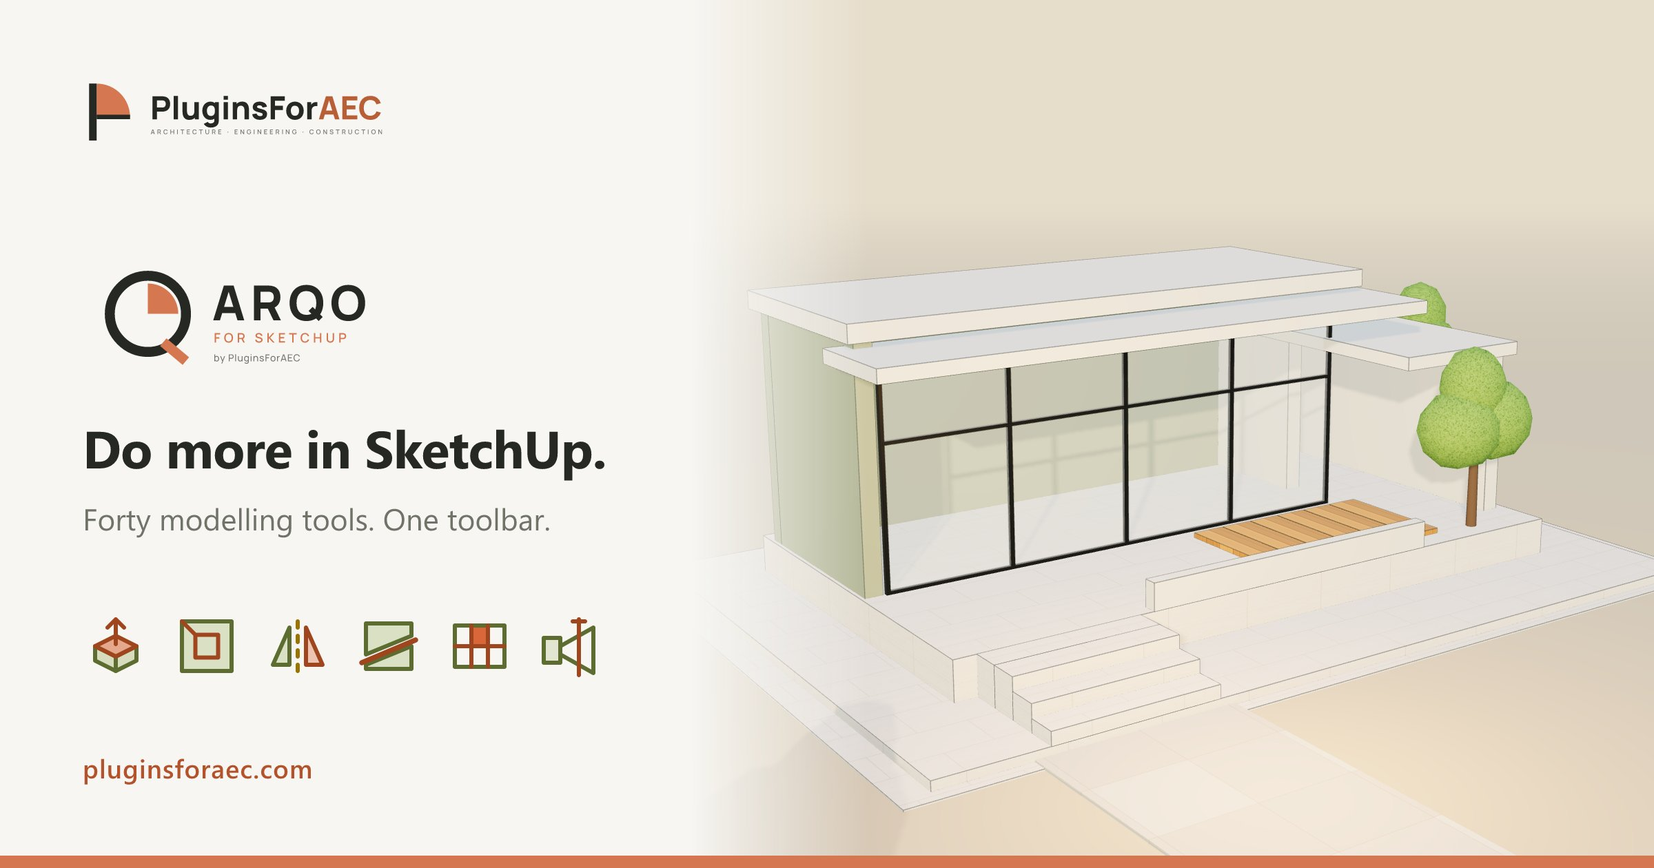
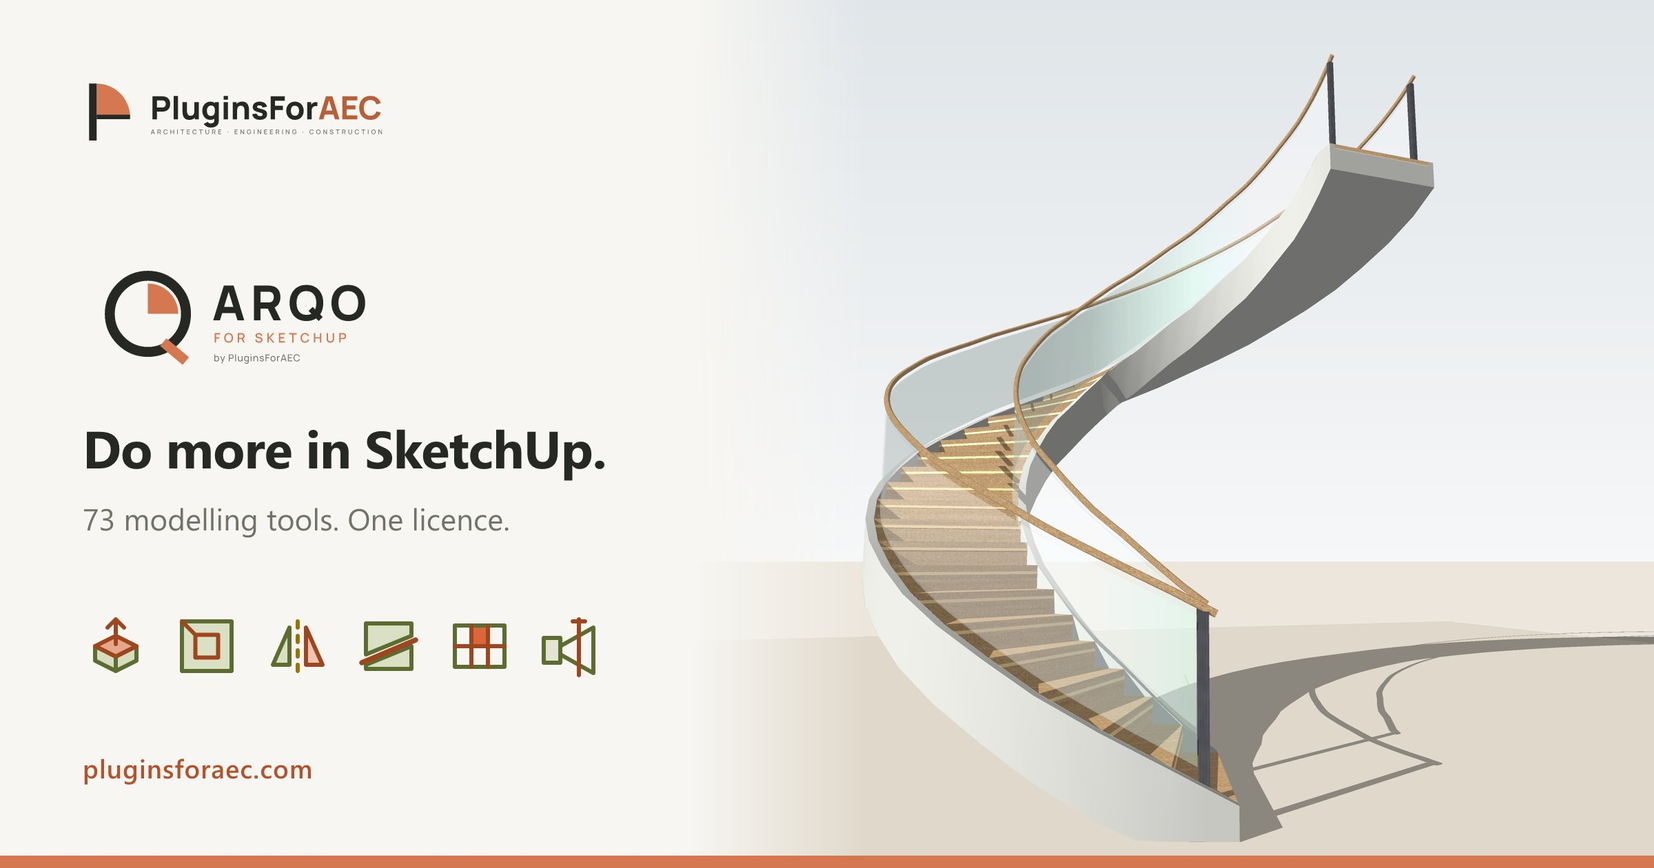
ARQO is 73 tools: site wording and share cover

diff --git a/guides/sketchup-plugins-for-architects.html b/guides/sketchup-plugins-for-architects.html
@@ -17,7 +17,7 @@
 <script type="application/ld+json">{"@context":"https://schema.org","@type":"Article","headline":"SketchUp plugins for architects: the tasks that matter","description":"Which SketchUp plugins architects need, task by task: massing, walls and stairs, cuts, cleaning up CAD, organising the model and presenting it.","inLanguage":"en","mainEntityOfPage":"https://pluginsforaec.com/guides/sketchup-plugins-for-architects.html","author":{"@type":"Organization","name":"PluginsForAEC","url":"https://pluginsforaec.com/"},"publisher":{"@type":"Organization","name":"PluginsForAEC","logo":{"@type":"ImageObject","url":"https://pluginsforaec.com/assets/logo-512.png"}}}</script>
 <section class="tool-head"><div class="wrap"><p class="eyebrow"><a href="index.html">Guides</a></p><h1 class="page-title">SketchUp plugins for architects: the tasks that matter</h1><p class="lede">SketchUp is quick for ideas and slow for the repetitive parts of a project. These are the tasks where a plugin saves an architect the most time, and the ARQO tools that do them.</p></div></section>
 <section class="tool-body"><div class="wrap info article"><div class="info-block"><h2>Massing and form</h2><p>Push/pull is where most SketchUp time goes. <a class="link" href="../arqo/tools/arqo-push.html">ARQOPush</a> keeps SketchUp's push/pull and adds twelve modes: many faces at once, up to a face or an object, thicken, taper, offset, copy, symmetric, along an axis, repeat. <a class="link" href="../arqo/tools/make-box.html">Make Box+</a> draws a closed box from three points and a height; <a class="link" href="../arqo/tools/smart-offset.html">Smart Offset</a> offsets with guided distances; <a class="link" href="../arqo/tools/panel.html">Panel</a> and <a class="link" href="../arqo/tools/frame.html">Frame</a> add boards and frames on faces.</p></div><div class="info-block"><h2>Walls and stairs</h2><p><a class="link" href="../arqo/tools/smart-wall.html">Smart Wall</a> draws walls along a path with a thickness and a height, the corners mitred. <a class="link" href="../arqo/tools/smart-stair.html">ARQO Stair+</a> makes a straight flight between two levels in two clicks and checks it against the rules for risers and goings.</p></div><div class="info-block"><h2>Cuts and sections</h2><p><a class="link" href="../arqo/tools/smart-slice.html">Smart Slice</a> cuts geometry with a reference plane; <a class="link" href="../arqo/tools/multi-slice.html">Multi Slice</a> makes many parallel cuts in one go, in equal parts or at a spacing. <a class="link" href="../arqo/tools/divide.html">Divide+</a> splits edges, curves and faces into equal parts, previewed first.</p></div><div class="info-block"><h2>Cleaning up drawings and imports</h2><p>Imported plans are rarely ready to model on. <a class="link" href="../arqo/tools/import-dxf.html">Import DXF</a> brings DXF geometry into a controlled context, <a class="link" href="../arqo/tools/find-gap.html">Find Gap</a> finds open ends, <a class="link" href="../arqo/tools/connect-heal.html">Connect / Heal</a> closes gaps, <a class="link" href="../arqo/tools/weld.html">Weld+</a> and <a class="link" href="../arqo/tools/curve-to-arc.html">Curve to Arc</a> rebuild curves, <a class="link" href="../arqo/tools/make-face.html">Make Face+</a> fills closed outlines and <a class="link" href="../arqo/tools/delete-overlap.html">Delete Overlap</a> removes duplicates. The <a class="link" href="clean-up-imported-cad-in-sketchup.html">clean-up guide</a> puts them in order.</p></div><div class="info-block"><h2>Organising the model</h2><p><a class="link" href="../arqo/tools/tag-tools.html">Tag Tools</a> assigns, isolates and cleans up tags from the selection. <a class="link" href="../arqo/tools/to-components.html">To Components+</a> turns groups into components, with alike groups sharing one definition. <a class="link" href="../arqo/tools/smart-select.html">Smart Select</a> and <a class="link" href="../arqo/tools/filter-selection.html">Filter Selection</a> select by kind, tag, material and visibility.</p></div><div class="info-block"><h2>Presenting it</h2><p><a class="link" href="../arqo/tools/scene-shadows.html">Scene Shadows</a> gives every scene the same shadows, <a class="link" href="../arqo/tools/export-scenes.html">Export Scenes</a> saves every scene as an image in one click, and <a class="link" href="../arqo/tools/clipping-camera.html">Clipping Camera</a> finds what makes close-up views clip. <a class="link" href="../arqo/tools/import-camera.html">Import Camera</a> brings cameras in from another model.</p></div><div class="info-block"><h2>One toolbar</h2><p>All of these sit on one ARQO toolbar and work the same way: SketchUp's keys and inference, typed values, one Undo for every action, and a plain message after each run. Browse them all on the <a class="link" href="../arqo/index.html#tools">ARQO page</a> or read each tool's guide in the <a class="link" href="../docs/index.html">documentation</a>.</p></div>
-  <div class="info-block"><h2>Read next</h2><ul class="always"><li><a class="link" href="plugins-for-aec.html">Plugins for AEC: what they are and how to choose them</a></li><li><a class="link" href="clean-up-imported-cad-in-sketchup.html">Cleaning up imported CAD drawings in SketchUp</a></li><li><a class="link" href="../arqo/index.html">ARQO for SketchUp: all forty tools</a></li></ul></div></div></section><footer class="foot"><div class="wrap">
+  <div class="info-block"><h2>Read next</h2><ul class="always"><li><a class="link" href="plugins-for-aec.html">Plugins for AEC: what they are and how to choose them</a></li><li><a class="link" href="clean-up-imported-cad-in-sketchup.html">Cleaning up imported CAD drawings in SketchUp</a></li><li><a class="link" href="../arqo/index.html">ARQO for SketchUp: all 73 tools</a></li></ul></div></div></section><footer class="foot"><div class="wrap">
   <div class="foot-row">
     <div class="foot-brand"><img src="../assets/pluginsforaec-dark.svg" alt="PluginsForAEC"><p>Plugins for AEC: professional plugins for architects, engineers and builders. First product: ARQO for SketchUp.</p></div>
     <nav class="foot-col"><b>Products</b><a href="../arqo/index.html">ARQO for SketchUp</a><a href="../arqo/index.html#push">ARQOPush</a><a href="../index.html#products">Roadmap</a></nav>

diff --git a/index.html b/index.html
@@ -1,10 +1,10 @@
 <!doctype html>
 <html lang="en"><head><meta charset="utf-8"><meta name="viewport" content="width=device-width, initial-scale=1">
-<title>PluginsForAEC — Plugins for AEC: architecture, engineering, construction</title><meta name="description" content="PluginsForAEC (Plugins for AEC) makes professional plugins for architects, engineers and builders. First product: ARQO for SketchUp, forty modelling tools.">
+<title>PluginsForAEC — Plugins for AEC: architecture, engineering, construction</title><meta name="description" content="PluginsForAEC (Plugins for AEC) makes professional plugins for architects, engineers and builders. First product: ARQO for SketchUp, 73 modelling tools.">
 <link rel="icon" href="favicon.svg" type="image/svg+xml"><link rel="apple-touch-icon" href="assets/icon-180.png"><link rel="stylesheet" href="style.css">
 <link rel="canonical" href="https://pluginsforaec.com/">
 <meta property="og:type" content="website"><meta property="og:site_name" content="PluginsForAEC"><meta property="og:url" content="https://pluginsforaec.com/">
-<meta property="og:title" content="PluginsForAEC — Plugins for AEC: architecture, engineering, construction"><meta property="og:description" content="PluginsForAEC (Plugins for AEC) makes professional plugins for architects, engineers and builders. First product: ARQO for SketchUp, forty modelling tools."><meta property="og:locale" content="en_US">
+<meta property="og:title" content="PluginsForAEC — Plugins for AEC: architecture, engineering, construction"><meta property="og:description" content="PluginsForAEC (Plugins for AEC) makes professional plugins for architects, engineers and builders. First product: ARQO for SketchUp, 73 modelling tools."><meta property="og:locale" content="en_US">
 <meta property="og:image" content="https://pluginsforaec.com/assets/og.jpg"><meta property="og:image:type" content="image/jpeg"><meta property="og:image:width" content="2400"><meta property="og:image:height" content="1260">
 <meta property="og:image:alt" content="ARQO for SketchUp: the demo house and ARQO toolbar icons">
 <meta name="twitter:card" content="summary_large_image"><meta name="twitter:image" content="https://pluginsforaec.com/assets/og.jpg">
@@ -32,7 +32,7 @@
 
 <section id="products" class="products"><div class="wrap">
   <div class="stats">
-  <div><b>40</b><span>modelling tools</span></div>
+  <div><b>73</b><span>SketchUp tools</span></div>
   <div><b>12</b><span>ARQOPush modes</span></div>
   <div><b>32</b><span>new tools since launch</span></div>
   <div><b>1</b><span>Undo for every action</span></div>
@@ -40,7 +40,7 @@
   <p class="eyebrow dark">Products</p>
   <h2>One ecosystem. Four workspaces.</h2>
   <div class="product-grid">
-    <a class="product product-live" href="arqo/index.html"><div class="product-text"><span class="host">01 / SketchUp</span><span class="state live">First product · Early access, on sale</span><h3><img src="assets/arqo-dark.svg" alt="ARQO for SketchUp"></h3><p class="line">A new toolset for everyday modelling.</p><p>Forty tools, ARQOPush and new architecture tools on one toolbar. Every action one Undo, your components safe.</p><span class="go">Explore ARQO →</span></div><img class="product-shot" src="assets/arqo/stair_helix-1024.webp" alt="ARQO for SketchUp: a helical stair built by Stair+ in SketchUp" loading="lazy"></a><article class="product product-cad"><span class="host">02 / AutoCAD</span><span class="state">On the roadmap</span><h3>CADPILOT</h3><p class="line">Drawing intelligence and project control.</p><p>QA, standardisation and delivery automation for drawing sets.</p></article><article class="product product-rhino"><span class="host">03 / Rhino</span><span class="state">On the roadmap</span><h3>RHINOPILOT</h3><p class="line">From geometry to fabrication.</p><p>Geometry intelligence, surfaces and fabrication.</p></article><article class="product product-gh"><span class="host">04 / Grasshopper</span><span class="state">On the roadmap</span><h3>GH Tools</h3><p class="line">Make your parametric flow visible.</p><p>GH Doctor, Copilot and definition tools.</p></article>
+    <a class="product product-live" href="arqo/index.html"><div class="product-text"><span class="host">01 / SketchUp</span><span class="state live">First product · Early access, on sale</span><h3><img src="assets/arqo-dark.svg" alt="ARQO for SketchUp"></h3><p class="line">A new toolset for everyday modelling.</p><p>73 tools, ARQOPush included, in one install. Every action one Undo, your components safe.</p><span class="go">Explore ARQO →</span></div><img class="product-shot" src="assets/arqo/stair_helix-1024.webp" alt="ARQO for SketchUp: a helical stair built by Stair+ in SketchUp" loading="lazy"></a><article class="product product-cad"><span class="host">02 / AutoCAD</span><span class="state">On the roadmap</span><h3>CADPILOT</h3><p class="line">Drawing intelligence and project control.</p><p>QA, standardisation and delivery automation for drawing sets.</p></article><article class="product product-rhino"><span class="host">03 / Rhino</span><span class="state">On the roadmap</span><h3>RHINOPILOT</h3><p class="line">From geometry to fabrication.</p><p>Geometry intelligence, surfaces and fabrication.</p></article><article class="product product-gh"><span class="host">04 / Grasshopper</span><span class="state">On the roadmap</span><h3>GH Tools</h3><p class="line">Make your parametric flow visible.</p><p>GH Doctor, Copilot and definition tools.</p></article>
   </div>
 </div></section>
 

diff --git a/guides/clean-up-imported-cad-in-sketchup.html b/guides/clean-up-imported-cad-in-sketchup.html
@@ -17,7 +17,7 @@
 <script type="application/ld+json">{"@context":"https://schema.org","@type":"Article","headline":"Cleaning up imported CAD drawings in SketchUp","description":"A step-by-step way to clean up a DXF or DWG plan in SketchUp: import into a controlled context, find and close gaps, rebuild arcs, make faces, remove duplicates.","inLanguage":"en","mainEntityOfPage":"https://pluginsforaec.com/guides/clean-up-imported-cad-in-sketchup.html","author":{"@type":"Organization","name":"PluginsForAEC","url":"https://pluginsforaec.com/"},"publisher":{"@type":"Organization","name":"PluginsForAEC","logo":{"@type":"ImageObject","url":"https://pluginsforaec.com/assets/logo-512.png"}}}</script>
 <section class="tool-head"><div class="wrap"><p class="eyebrow"><a href="index.html">Guides</a></p><h1 class="page-title">Cleaning up imported CAD drawings in SketchUp</h1><p class="lede">A CAD plan imported into SketchUp often has gaps, broken curves, overlapping lines and no faces. This is the order that turns it into a clean base to model on.</p></div></section>
 <section class="tool-body"><div class="wrap info article"><div class="info-block"><h2>1. Bring it in on its own</h2><p>Import the drawing into a group of its own, on its own tag, so nothing in it touches the model you already have. <a class="link" href="../arqo/tools/import-dxf.html">Import DXF</a> does this for DXF files and reports what it brought in.</p></div><div class="info-block"><h2>2. Find the gaps</h2><p>Faces need closed outlines, and CAD lines often stop just short of each other. <a class="link" href="../arqo/tools/find-gap.html">Find Gap</a> marks every open end, so you see where the outline is broken before you try to make faces.</p></div><div class="info-block"><h2>3. Close them</h2><p><a class="link" href="../arqo/tools/connect-heal.html">Connect / Heal</a> joins edges that nearly meet and repairs small gaps. Run it on the selection, check the result, and take it back with one Undo if a gap was meant to be there.</p></div><div class="info-block"><h2>4. Rebuild curves</h2><p>Arcs often arrive as chains of short lines. <a class="link" href="../arqo/tools/curve-to-arc.html">Curve to Arc</a> turns chains that lie on a circle back into real arcs and circles; <a class="link" href="../arqo/tools/weld.html">Weld+</a> joins the remaining connected edges into curves, so they select and offset as one.</p></div><div class="info-block"><h2>5. Remove duplicates</h2><p>Overlapping lines split faces in unexpected places. <a class="link" href="../arqo/tools/delete-overlap.html">Delete Overlap</a> finds and removes duplicate geometry that lies on top of other geometry.</p></div><div class="info-block"><h2>6. Make the faces</h2><p>With the outlines closed, <a class="link" href="../arqo/tools/make-face.html">Make Face+</a> creates the faces from the closed planar edges, and <a class="link" href="../arqo/tools/hide-show-lines.html">Hide / Show Lines</a> hides the seams between faces in one plane.</p></div><div class="info-block"><h2>7. Model on it</h2><p>Now the plan is ready for walls and volumes: draw walls on it with <a class="link" href="../arqo/tools/smart-wall.html">Smart Wall</a>, or push its faces up with <a class="link" href="../arqo/tools/arqo-push.html">ARQOPush</a>. Organise what you made with <a class="link" href="../arqo/tools/tag-tools.html">Tag Tools</a>.</p></div>
-  <div class="info-block"><h2>Read next</h2><ul class="always"><li><a class="link" href="plugins-for-aec.html">Plugins for AEC: what they are and how to choose them</a></li><li><a class="link" href="sketchup-plugins-for-architects.html">SketchUp plugins for architects: the tasks that matter</a></li><li><a class="link" href="../arqo/index.html">ARQO for SketchUp: all forty tools</a></li></ul></div></div></section><footer class="foot"><div class="wrap">
+  <div class="info-block"><h2>Read next</h2><ul class="always"><li><a class="link" href="plugins-for-aec.html">Plugins for AEC: what they are and how to choose them</a></li><li><a class="link" href="sketchup-plugins-for-architects.html">SketchUp plugins for architects: the tasks that matter</a></li><li><a class="link" href="../arqo/index.html">ARQO for SketchUp: all 73 tools</a></li></ul></div></div></section><footer class="foot"><div class="wrap">
   <div class="foot-row">
     <div class="foot-brand"><img src="../assets/pluginsforaec-dark.svg" alt="PluginsForAEC"><p>Plugins for AEC: professional plugins for architects, engineers and builders. First product: ARQO for SketchUp.</p></div>
     <nav class="foot-col"><b>Products</b><a href="../arqo/index.html">ARQO for SketchUp</a><a href="../arqo/index.html#push">ARQOPush</a><a href="../index.html#products">Roadmap</a></nav>

diff --git a/guides/plugins-for-aec.html b/guides/plugins-for-aec.html
@@ -18,8 +18,8 @@
 <section class="tool-head"><div class="wrap"><p class="eyebrow"><a href="index.html">Guides</a></p><h1 class="page-title">Plugins for AEC: what they are and how to choose them</h1><p class="lede">AEC stands for architecture, engineering and construction. Plugins for AEC add the tools these jobs need to the software the office already uses: SketchUp, AutoCAD, Rhino, Grasshopper.</p></div></section>
 <section class="tool-body"><div class="wrap info article"><div class="info-block"><h2>What a plugin for AEC is</h2><p>A plugin is a small program that runs inside a host application and adds commands to it. In AEC work the host is usually a modelling or drawing program, and the plugin takes over a task that is slow or easy to get wrong by hand: walls and stairs, cuts and sections, cleaning up imported drawings, scenes for a presentation.</p>
 <p>A plugin does not replace the software. The model stays a normal SketchUp, AutoCAD or Rhino file that colleagues and consultants can open without it.</p></div><div class="info-block"><h2>What a good plugin promises</h2><ul class="always"><li>Every action can be taken back: one Undo undoes the whole step, not twenty small ones.</li><li>It changes only what you picked. Shared components, other layers and the rest of the model stay as they were.</li><li>It tells you what it did, and when it cannot help, it says why and changes nothing.</li><li>It works the way the host works: the same keys, the same inference, typed values in the measurements box.</li><li>It says which versions of the host it supports, and every release lists its changes.</li></ul></div><div class="info-block"><h2>How to choose</h2><p>Start from the task, not the plugin. Write down the three jobs that cost the office the most time in a week, then look for tools that do those jobs in your own software. Try them on a copy of a real project, not a demo file, and check the promises above: undo, safety, plain messages.</p>
-<p>Fewer, consistent tools beat many unrelated ones. Tools that share one toolbar, one way of typing values and one set of keys are learned once.</p></div><div class="info-block"><h2>PluginsForAEC</h2><p>PluginsForAEC builds plugins for AEC on one shared foundation. The first product is <a class="link" href="../arqo/index.html">ARQO for SketchUp</a>: forty modelling tools and ARQOPush, a push/pull engine with twelve modes, on one toolbar. CADPILOT for AutoCAD, RHINOPILOT for Rhino and GH Tools for Grasshopper are on the roadmap.</p></div>
-  <div class="info-block"><h2>Read next</h2><ul class="always"><li><a class="link" href="sketchup-plugins-for-architects.html">SketchUp plugins for architects: the tasks that matter</a></li><li><a class="link" href="clean-up-imported-cad-in-sketchup.html">Cleaning up imported CAD drawings in SketchUp</a></li><li><a class="link" href="../arqo/index.html">ARQO for SketchUp: all forty tools</a></li></ul></div></div></section><footer class="foot"><div class="wrap">
+<p>Fewer, consistent tools beat many unrelated ones. Tools that share one toolbar, one way of typing values and one set of keys are learned once.</p></div><div class="info-block"><h2>PluginsForAEC</h2><p>PluginsForAEC builds plugins for AEC on one shared foundation. The first product is <a class="link" href="../arqo/index.html">ARQO for SketchUp</a>: 73 modelling tools, among them ARQOPush, a push/pull engine with twelve modes. CADPILOT for AutoCAD, RHINOPILOT for Rhino and GH Tools for Grasshopper are on the roadmap.</p></div>
+  <div class="info-block"><h2>Read next</h2><ul class="always"><li><a class="link" href="sketchup-plugins-for-architects.html">SketchUp plugins for architects: the tasks that matter</a></li><li><a class="link" href="clean-up-imported-cad-in-sketchup.html">Cleaning up imported CAD drawings in SketchUp</a></li><li><a class="link" href="../arqo/index.html">ARQO for SketchUp: all 73 tools</a></li></ul></div></div></section><footer class="foot"><div class="wrap">
   <div class="foot-row">
     <div class="foot-brand"><img src="../assets/pluginsforaec-dark.svg" alt="PluginsForAEC"><p>Plugins for AEC: professional plugins for architects, engineers and builders. First product: ARQO for SketchUp.</p></div>
     <nav class="foot-col"><b>Products</b><a href="../arqo/index.html">ARQO for SketchUp</a><a href="../arqo/index.html#push">ARQOPush</a><a href="../index.html#products">Roadmap</a></nav>

diff --git a/arqo/index.html b/arqo/index.html
@@ -1,10 +1,10 @@
 <!doctype html>
 <html lang="en"><head><meta charset="utf-8"><meta name="viewport" content="width=device-width, initial-scale=1">
-<title>ARQO for SketchUp — Model faster. Break nothing.</title><meta name="description" content="Forty modelling tools for SketchUp. Every action one Undo, shared components safe, every result told in plain words.">
+<title>ARQO for SketchUp — Model faster. Break nothing.</title><meta name="description" content="73 modelling tools for SketchUp. Every action one Undo, shared components safe, every result told in plain words.">
 <link rel="icon" href="../favicon.svg" type="image/svg+xml"><link rel="apple-touch-icon" href="../assets/icon-180.png"><link rel="stylesheet" href="../style.css">
 <link rel="canonical" href="https://pluginsforaec.com/arqo/">
 <meta property="og:type" content="website"><meta property="og:site_name" content="PluginsForAEC"><meta property="og:url" content="https://pluginsforaec.com/arqo/">
-<meta property="og:title" content="ARQO for SketchUp — Model faster. Break nothing."><meta property="og:description" content="Forty modelling tools for SketchUp. Every action one Undo, shared components safe, every result told in plain words."><meta property="og:locale" content="en_US">
+<meta property="og:title" content="ARQO for SketchUp — Model faster. Break nothing."><meta property="og:description" content="73 modelling tools for SketchUp. Every action one Undo, shared components safe, every result told in plain words."><meta property="og:locale" content="en_US">
 <meta property="og:image" content="https://pluginsforaec.com/assets/og.jpg"><meta property="og:image:type" content="image/jpeg"><meta property="og:image:width" content="2400"><meta property="og:image:height" content="1260">
 <meta property="og:image:alt" content="ARQO for SketchUp: the demo house and ARQO toolbar icons">
 <meta name="twitter:card" content="summary_large_image"><meta name="twitter:image" content="https://pluginsforaec.com/assets/og.jpg">
@@ -21,7 +21,7 @@
     <div class="arqo-hero-copy">
       <p class="arqo-eyebrow">ARQO for SketchUp <span aria-hidden="true">·</span> Early access</p>
       <h1 id="arqo-title">Model faster. <span>Break nothing.</span></h1>
-      <p class="arqo-hero-lead">Forty SketchUp tools built by an architect, plus ARQOPush and new architecture tools. Build from plan lines through to section sheets.</p>
+      <p class="arqo-hero-lead">73 SketchUp tools built by an architect — ARQOPush, Stair+, Kitchen Builder and the architecture tools. Build from plan lines through to section sheets.</p>
       <div class="arqo-actions">
         <a class="arqo-buy" href="https://ilyasekinci.gumroad.com/l/rlplxw">Buy ARQO — $149</a>
         <a class="arqo-text-link" href="#push-proof">See it in action <span aria-hidden="true">↓</span></a>
@@ -122,7 +122,7 @@
 
 <section id="tools" class="library"><div class="wrap">
   <p class="eyebrow dark">The library</p>
-  <h2>Forty tools, ARQOPush and the new ones.</h2>
+  <h2>73 tools, ARQOPush included.</h2>
   <p class="lede dark">Every tool in one licence, on one toolbar family.</p>
   <figure class="window window-light">
     <div class="window-bar"><i></i><i></i><i></i><span>Kitchen.skp — SketchUp</span></div>
@@ -138,7 +138,7 @@
   <p class="eyebrow">Early access</p>
   <h2>The complete toolset. $149 once.</h2>
   <div class="plans" style="grid-template-columns:minmax(0,560px);justify-content:center">
-    <article class="best"><span class="plan-tag">Early access</span><h3>ARQO for SketchUp — $149</h3><p>Get the forty launch tools, ARQOPush and the new architecture tools in one licence.</p>
+    <article class="best"><span class="plan-tag">Early access</span><h3>ARQO for SketchUp — $149</h3><p>Get all 73 tools — ARQOPush, Stair+, Kitchen Builder and the architecture tools — in one licence.</p>
       <ul class="ticks"><li>12 months of updates</li><li>One licence for two computers</li><li>Windows · SketchUp 2021 or newer</li></ul></article>
   </div>
   <p class="note">Checkout on Gumroad. Your licence key arrives with your purchase; install from Extension Manager, then enter the key under Extensions › ARQO › License.</p>
